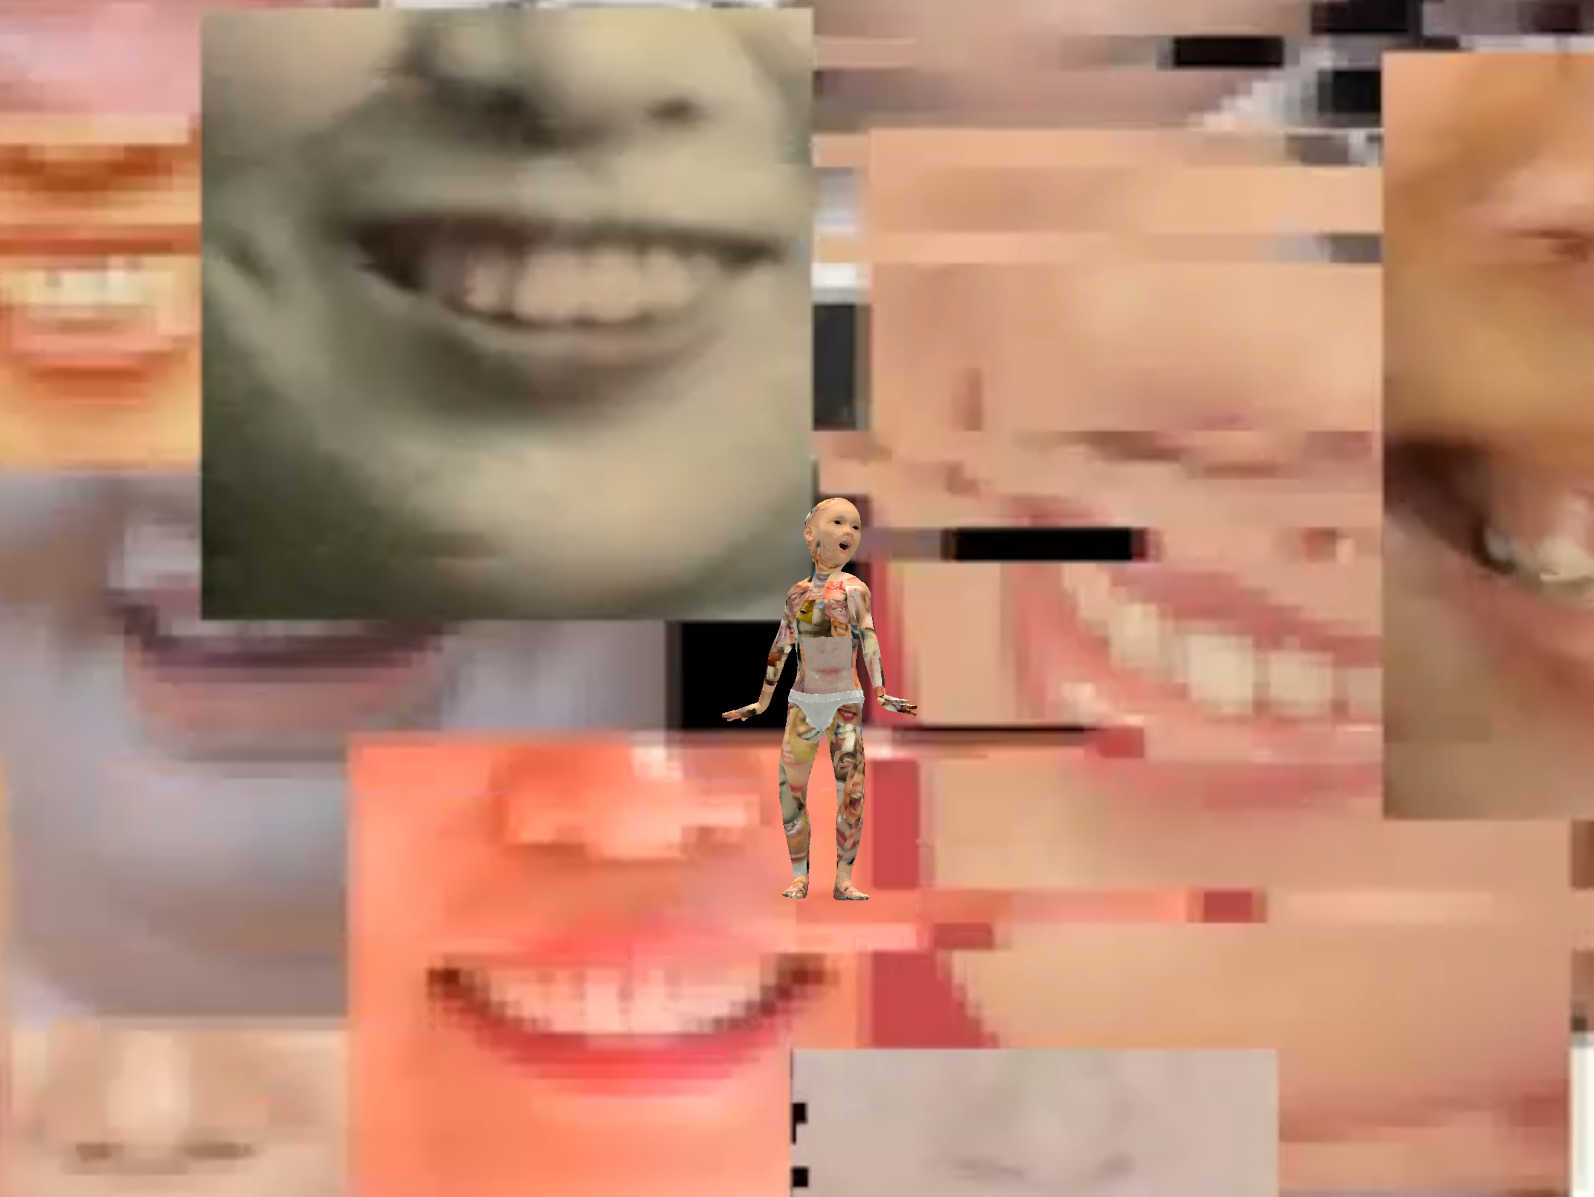
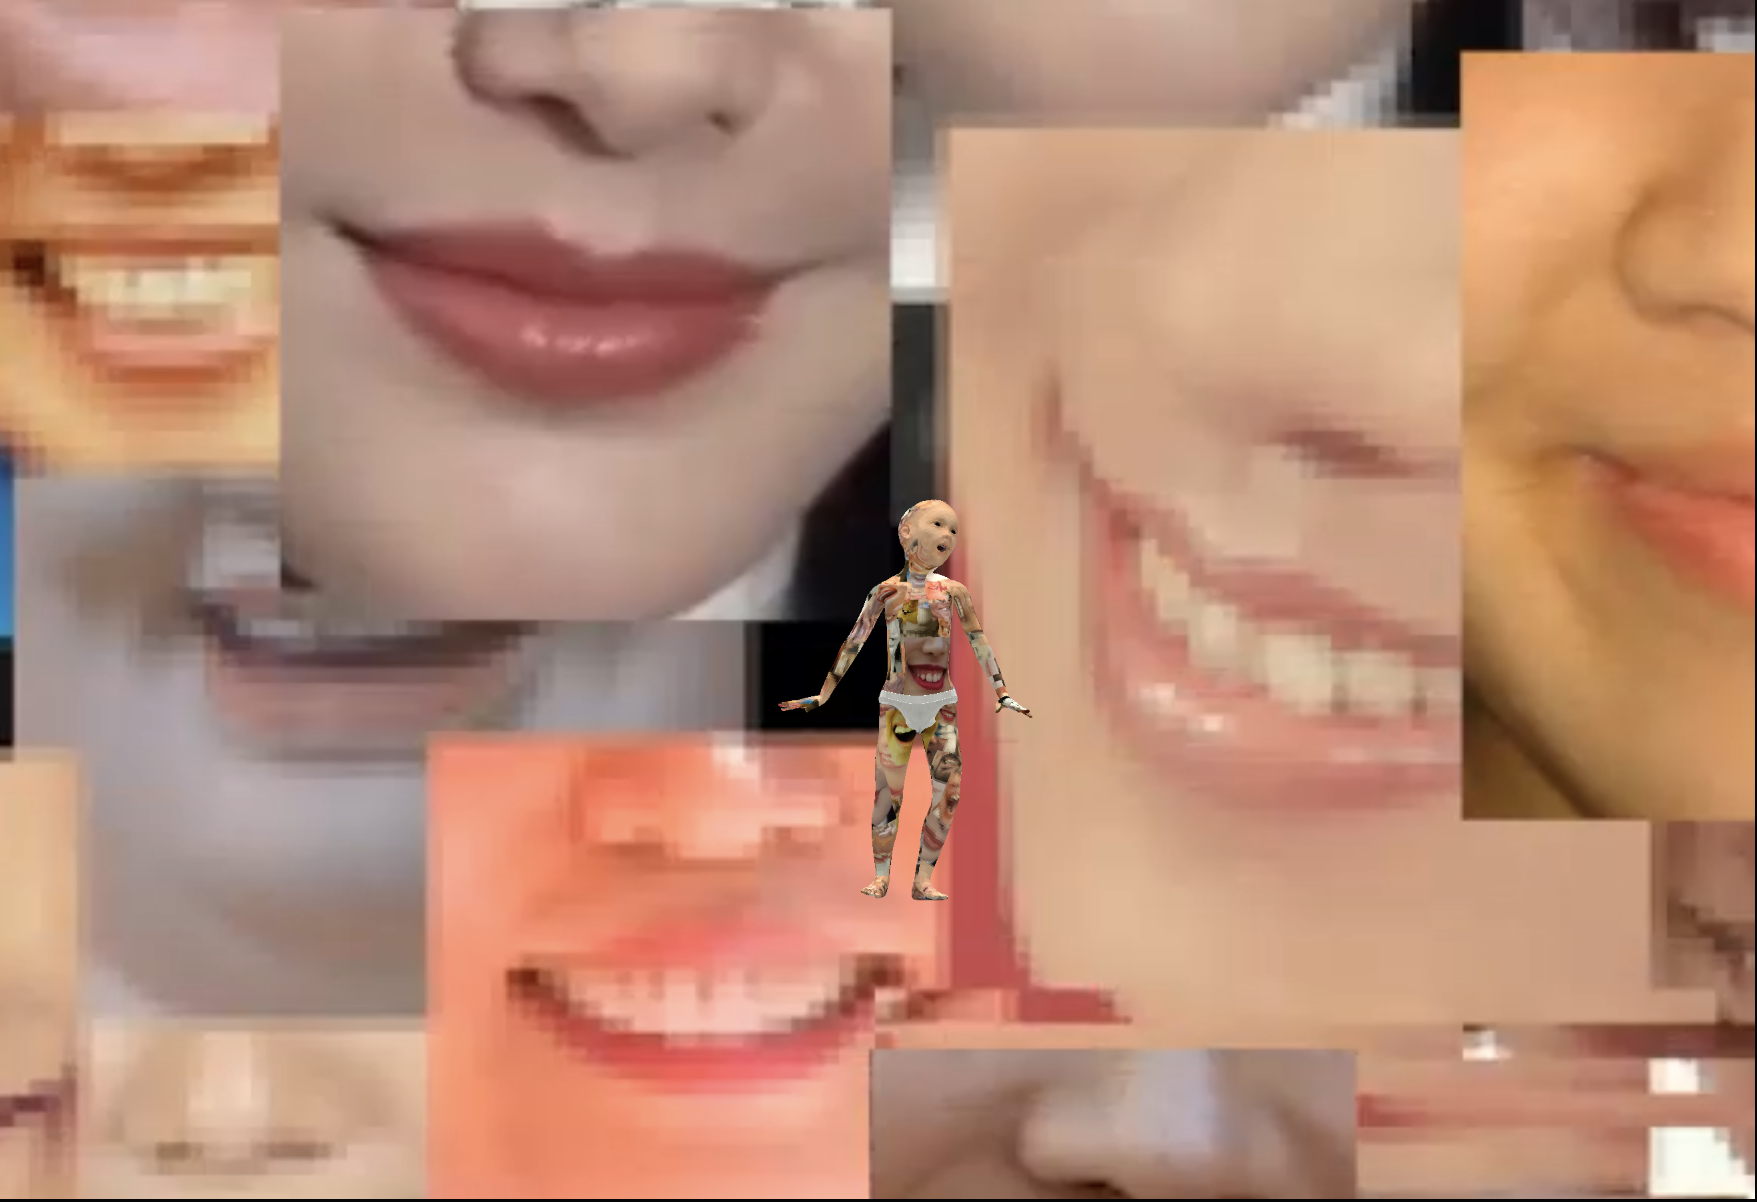
updated html js

diff --git a/dream_2.html b/dream_2.html
@@ -1106,11 +1106,11 @@
                         </div>
                     </div>
                     <br>
-                    <div id="3d5"></div>
+                    <div id="3d5" ></div>
                     <div id="preview">
                         <button id="startButton">Start</button>
                         <br>
-                        <img id="previewimage" src="images/preview.png" alt="Preview Image" width="800" height="600">
+                        <img id="previewimage" src="images/preview.png" alt="Preview Image" width="880" height="600">
                     </div>
                     <script class="myscript" src="scripts/sketch_dream_5.js"></script>
                     <br>

diff --git a/scripts/sketch_dream_5.js b/scripts/sketch_dream_5.js
@@ -18,11 +18,11 @@ audio1.play();
 
 
 const scene = new THREE.Scene();
-const myCamera = new THREE.OrthographicCamera(800 / - 3, 800 / 3, 600 / 3, 600 / - 3, 0.001, 2000);
+const myCamera = new THREE.OrthographicCamera(880 / - 3, 880 / 3, 600 / 3, 600 / - 3, 0.001, 2000);
 myCamera.position.set(0, 0, 1000);
 // myCamera.zoom = 10;
 const renderer = new THREE.WebGLRenderer({ alpha: true });
-renderer.setSize(800, 600);
+renderer.setSize(880, 600);
 renderer.setClearColor(0xcccccc);
 renderer.setPixelRatio(3);
 document.getElementById('3d5').appendChild(renderer.domElement);
